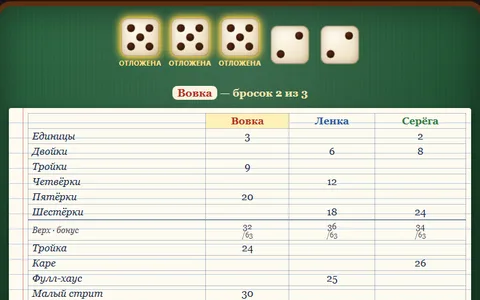
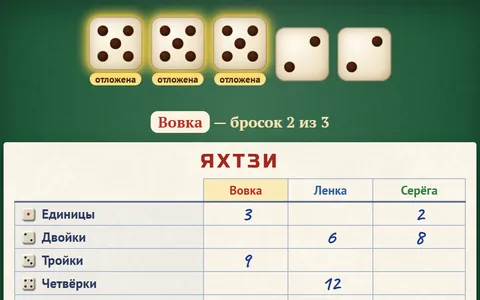
Яхтзи: бланк счёта вместо тетради — печать, очки от руки чернилами
Бумага с фактурой без тетрадных линеек, шапка с названием игры, печатные графы со значками
граней, сетка с разделами; записанные очки — рукописью синими чернилами с наклоном,
варианты — карандашом. Стол — сукно в деревянной раме (как в перудо).

diff --git a/lavochka/src/games/yahtzee/yahtzee.css b/lavochka/src/games/yahtzee/yahtzee.css
@@ -1,13 +1,14 @@
-/* Яхтзи: стол — сукно с лотком для костей, ниже тетрадный лист с таблицей. */
+/* Яхтзи: стол — сукно в деревянной раме с лотком костей, ниже бланк счёта (бумага, печать, очки от руки). */
 .yz-wrap { position: relative; width: 100%; height: 100%; user-select: none; display: flex; align-items: flex-start; justify-content: center; padding: 10px; box-sizing: border-box; overflow: auto; }
 .yz-table {
   width: min(100%, 760px); margin: auto 0; display: flex; flex-direction: column; gap: 10px; padding: 14px; box-sizing: border-box; border-radius: 18px;
-  background: radial-gradient(ellipse at 50% 20%, rgba(255, 255, 255, 0.1), transparent 60%), repeating-linear-gradient(90deg, rgba(0, 0, 0, 0.05) 0 2px, transparent 2px 5px), linear-gradient(160deg, #2f6b45, #1d4a2e 70%);
-  box-shadow: inset 0 0 60px rgba(0, 0, 0, 0.5), 0 0 0 8px #5b2f12, 0 0 0 10px #2a1206, 0 14px 26px rgba(0, 0, 0, 0.5);
+  border: 10px solid transparent;
+  background: radial-gradient(ellipse at 50% 18%, rgba(255, 255, 230, 0.14), transparent 60%) padding-box, url('/tex/perudo/felt.webp') center / 192px padding-box, url('/tex/perudo/wood.webp') center / 256px border-box;
+  box-shadow: inset 0 0 50px rgba(0, 0, 0, 0.5), 0 14px 26px rgba(0, 0, 0, 0.55);
 }
 .yz-tray { display: flex; justify-content: center; gap: 12px; padding: 18px 8px 8px; }
 .yz-slot { display: flex; flex-direction: column; align-items: center; gap: 4px; transition: transform 0.2s; }
-.yz-slot small { font: 700 11px system-ui, sans-serif; color: #ffe08a; visibility: hidden; text-transform: uppercase; letter-spacing: 0.5px; }
+.yz-slot small { font: 600 11px 'PT Sans', system-ui, sans-serif; color: #2a1a0a; background: #ffe08a; padding: 0 6px; border-radius: 999px; visibility: hidden; }
 .yz-slot.held { transform: translateY(-12px); }
 .yz-slot.held small { visibility: visible; }
 .yz-slot.held .die-wrap { filter: drop-shadow(0 0 6px #ffd24a) drop-shadow(0 0 2px #ffd24a); }
@@ -17,26 +18,38 @@
 .yz-die .die-wrap { zoom: 1.16; }
 .yz-info { text-align: center; font: 700 17px 'PT Serif', Georgia, serif; color: #f6e2b0; min-height: 1.4em; }
 .yz-info span { padding: 1px 8px; border-radius: 8px; background: #fbf3df; }
+/* бланк счёта: бумага, печатная сетка и подписи, очки — от руки чернилами, подсказки — карандашом */
 .yz-sheet {
-  background: repeating-linear-gradient(#fdfaf0 0 23px, #b9cfe6 23px 24px), #fdfaf0; border-radius: 4px; padding: 8px 8px 10px 30px; position: relative;
-  box-shadow: 0 4px 12px rgba(0, 0, 0, 0.45); color: #1d2a4a; font: 16px 'PT Serif', Georgia, serif; overflow-x: auto;
+  background: url('/tex/yahtzee/paper.webp') center / 256px, #fbf7ea; border-radius: 3px; padding: 10px 12px 12px; position: relative;
+  box-shadow: 0 1px 0 #e9e1c8, 0 2px 0 #f6f0de, 0 3px 0 #e2d9bd, 0 8px 16px rgba(0, 0, 0, 0.45); color: #24304a; font: 15px 'PT Sans', system-ui, sans-serif; overflow-x: auto;
 }
-.yz-sheet::before { content: ''; position: absolute; left: 22px; top: 0; bottom: 0; width: 1px; background: #e08a8a; }
+.yz-title { font: 400 22px 'Russo One', 'PT Sans', sans-serif; color: #a3271f; letter-spacing: 3px; text-transform: uppercase; text-align: center; margin: -2px 0 6px; }
 .yz-grid { border-collapse: collapse; width: 100%; }
-.yz-grid th, .yz-grid td { border: 1px solid rgba(60, 80, 140, 0.35); padding: 2px 6px; text-align: center; height: 22px; white-space: nowrap; }
-.yz-grid td:first-child { text-align: left; font-style: italic; }
-.yz-grid th.cur { background: #fff1b8; }
-.yz-grid tr.sep td { border-bottom: 2px solid rgba(60, 80, 140, 0.6); }
-.yz-grid tr.sum td { font-size: 13px; color: #445; }
-.yz-grid tr.total td { font-weight: 700; border-top: 2px solid rgba(60, 80, 140, 0.6); }
-.yz-grid td.zero { color: #999; }
-.yz-grid td.win { background: #ffe9a8; }
-.yz-grid td.opt { color: #888; font-family: 'Caveat', 'Comic Sans MS', cursive; font-size: 18px; cursor: pointer; background: rgba(255, 220, 120, 0.25); }
-.yz-grid td.opt:hover { background: rgba(255, 210, 74, 0.6); color: #333; }
-.yz-grid td.big { font-size: 22px; font-weight: 700; }
+.yz-grid th, .yz-grid td { border: 1px solid #a9b6cf; padding: 1px 6px; text-align: center; height: 26px; white-space: nowrap; }
+.yz-grid th { font: 700 14px 'PT Sans', sans-serif; border-bottom: 2px solid #5e6f95; padding: 3px 6px; }
+.yz-grid th:first-child { border-top-color: transparent; border-left-color: transparent; }
+.yz-grid td.lb { text-align: left; font-weight: 700; color: #2c3a5e; background: rgba(170, 185, 215, 0.12); }
+.yz-grid td.lb img { width: 18px; height: 18px; vertical-align: -4px; margin-right: 6px; }
+.yz-grid td.lb small { font-weight: 400; color: #6a7590; font-size: 12px; }
+.yz-grid th.cur { background: rgba(255, 214, 90, 0.35); }
+.yz-grid tr.sep td { border-bottom: 2px solid #5e6f95; }
+.yz-grid tr.sum td { background: rgba(170, 185, 215, 0.2); }
+.yz-grid tr.sum td small { font-size: 12px; color: #7a86a0; }
+.yz-grid tr.total td { border-top: 2px solid #5e6f95; }
+.yz-grid td.ink i { display: inline-block; font: 700 23px/1 'Caveat', cursive; font-style: normal; color: #1f3a8f; transform: rotate(var(--r, 0deg)); }
+.yz-grid td.ink b { font-weight: 700; color: #a3271f; }
+.yz-grid tr.total td.ink i { font-size: 27px; }
+.yz-grid td.zero i { color: #5a6a9a; }
+.yz-grid td.win { background: rgba(255, 214, 90, 0.4); }
+.yz-grid td.win i { text-decoration: underline 2px #a3271f; text-underline-offset: 3px; }
+.yz-grid td.opt { cursor: pointer; }
+.yz-grid td.opt i { font: 700 22px/1 'Caveat', cursive; font-style: normal; color: #6f6f68; border-bottom: 1px dashed #a09e94; }
+.yz-grid td.opt:hover { background: rgba(255, 214, 90, 0.45); }
+.yz-grid td.opt:hover i { color: #3a3a36; }
+.yz-grid td.big i { font-size: 28px; }
 .yz-grid small { display: block; font-size: 11px; color: #556; }
-.yz-dots { display: inline-flex; gap: 2px; }
-.yz-dots i { font: 700 13px system-ui, sans-serif; font-style: normal; width: 17px; height: 17px; line-height: 17px; border-radius: 4px; background: #f3e7c9; box-shadow: inset 0 0 0 1px #a08452; }
+.yz-dots { display: inline-flex; gap: 1px; }
+.yz-dots img { width: 20px; height: 20px; }
 .yz-note { font-size: 13px; color: #556; margin-top: 4px; }
 .yz-panel { display: flex; flex-direction: column; gap: 6px; }
 .yz-panel .btn { width: 100%; }
@@ -44,7 +57,9 @@
 @media (max-width: 600px) {
   .yz-tray { gap: 6px; }
   .yz-die .die-wrap { zoom: 0.92; }
-  .yz-sheet { font-size: 14px; padding-left: 26px; }
+  .yz-sheet { font-size: 13px; padding: 8px 6px 10px; }
+  .yz-grid th, .yz-grid td { padding: 1px 3px; }
+  .yz-grid td.ink i, .yz-grid td.opt i { font-size: 20px; }
 }
 /* в показе правил (окошко ниже 520px) — плотнее, чтобы таблица помещалась целиком */
 @container (max-height: 520px) {
@@ -52,9 +67,11 @@
   .yz-tray { padding: 6px 4px 2px; }
   .yz-die .die-wrap { zoom: 0.75; }
   .yz-info { font-size: 14px; }
-  .yz-sheet { font-size: 12px; padding: 4px 4px 4px 22px; background: #fdfaf0; }
-  .yz-sheet::before { left: 16px; }
+  .yz-sheet { font-size: 12px; padding: 4px; }
+  .yz-title { font-size: 14px; margin: 0 0 2px; }
+  .yz-grid td.lb img { width: 12px; height: 12px; }
+  .yz-grid td.ink i { font-size: 15px; }
   .yz-grid th, .yz-grid td { height: 13px; padding: 0 4px; line-height: 13px; }
   .yz-grid small { display: inline; font-size: 10px; }
-  .yz-grid td.opt { font-size: 14px; }
+  .yz-grid td.opt i { font-size: 15px; }
 }

diff --git a/lavochka/src/games/yahtzee/view.ts b/lavochka/src/games/yahtzee/view.ts
@@ -112,12 +112,12 @@ class YahtzeeView implements GameView<State, Event> {
     const head = `<tr><th></th>${seats.map((p) => `<th style="color:${SEATS[p].ink ?? SEATS[p].color}" class="${p === v.turn && !v.over ? 'cur' : ''}">${esc(this.plain(p).replace(/\s*\(.*\)\s*$/, '').slice(0, 8))}</th>`).join('')}</tr>`;
     if (v.cfg.variant === 'poker') {
       const rows = [
-        `<tr><td>Побед</td>${seats.map((p) => `<td class="big">${v.wins[p]}</td>`).join('')}</tr>`,
-        `<tr><td>Кон ${v.pround}</td>${seats.map((p) => `<td>${v.hands[p] ? dice(v.hands[p]!) + `<small>${HAND_NAME[pokerRank(v.hands[p]!)[0]]}</small>` : p === v.turn && v.rolls ? '…' : ''}</td>`).join('')}</tr>`,
+        `<tr><td class="lb">Побед</td>${seats.map((p) => `<td class="ink big"><i>${v.wins[p]}</i></td>`).join('')}</tr>`,
+        `<tr><td class="lb">Кон ${v.pround}</td>${seats.map((p) => `<td>${v.hands[p] ? dice(v.hands[p]!) + `<small>${HAND_NAME[pokerRank(v.hands[p]!)[0]]}</small>` : p === v.turn && v.rolls ? '…' : ''}</td>`).join('')}</tr>`,
       ];
       if (v.last)
         rows.push(
-          `<tr class="prev"><td>Прошлый</td>${seats
+          `<tr class="prev"><td class="lb">Прошлый</td>${seats
             .map((p) => {
               const hd = v.last!.hands[p];
               const win = v.last!.winners.length === 1 && v.last!.winners[0] === p;
@@ -125,30 +125,35 @@ class YahtzeeView implements GameView<State, Event> {
             })
             .join('')}</tr>`
         );
-      this.sheet.innerHTML = `<table class="yz-grid poker">${head}${rows.join('')}</table><div class="yz-note">До ${v.cfg.wins} побед.</div>`;
+      this.sheet.innerHTML = `<div class="yz-title">${TITLE.poker}</div><table class="yz-grid poker">${head}${rows.join('')}</table><div class="yz-note">До ${v.cfg.wins} побед.</div>`;
       return;
     }
     const opts = this.actSeat != null ? options(v, this.actSeat) : [];
+    // записано — рукой, чернилами (лёгкий наклон у каждой цифры свой); можно записать — карандашом
     const cell = (p: number, c: string) => {
       const val = v.sheet[p][c];
-      if (val != null) return `<td class="${val === 0 ? 'zero' : ''}">${val === 0 ? '—' : val}</td>`;
+      if (val != null) return `<td class="ink${val === 0 ? ' zero' : ''}"><i style="--r:${tilt(p, c)}deg">${val === 0 ? '—' : val}</i></td>`;
       const o = p === this.actSeat ? opts.find((x) => x.cat === c) : undefined;
-      return o ? `<td class="opt" data-cat="${c}">${o.pts}</td>` : '<td></td>';
+      return o ? `<td class="opt" data-cat="${c}"><i>${o.pts}</i></td>` : '<td></td>';
+    };
+    const label = (c: string) => {
+      const n = /^n([1-6])$/.exec(c);
+      return n ? `<td class="lb"><img src="${TEX}d${n[1]}.webp" alt="">${CAT_NAME[c as keyof typeof CAT_NAME]}</td>` : `<td class="lb">${CAT_NAME[c as keyof typeof CAT_NAME]}</td>`;
     };
     const cats = catsOf(v.cfg);
     const rows: string[] = [];
     for (const c of cats) {
-      rows.push(`<tr class="${c === 'n6' ? 'sep' : ''}"><td>${CAT_NAME[c]}</td>${seats.map((p) => cell(p, c)).join('')}</tr>`);
+      rows.push(`<tr class="${c === 'n6' ? 'sep' : ''}">${label(c)}${seats.map((p) => cell(p, c)).join('')}</tr>`);
       if (c === 'n6' && v.cfg.variant === 'yahtzee')
-        rows.push(`<tr class="sum"><td>Верх · бонус</td>${seats.map((p) => {
+        rows.push(`<tr class="sum"><td class="lb">Верх <small>· бонус +35 от 63</small></td>${seats.map((p) => {
           const u = upperSum(v.sheet[p]);
-          return `<td>${u}${u >= 63 ? ' <b>+35</b>' : `<small>/63</small>`}</td>`;
+          return `<td class="ink"><i>${u}${u >= 63 ? ' <b>+35</b>' : ''}</i>${u < 63 ? '<small>/63</small>' : ''}</td>`;
         }).join('')}</tr>`);
     }
-    if (v.cfg.variant === 'yahtzee' && seats.some((p) => v.ybonus[p])) rows.push(`<tr><td>Ещё яхтзи</td>${seats.map((p) => `<td>${v.ybonus[p] || ''}</td>`).join('')}</tr>`);
+    if (v.cfg.variant === 'yahtzee' && seats.some((p) => v.ybonus[p])) rows.push(`<tr><td class="lb">Ещё яхтзи</td>${seats.map((p) => `<td class="ink"><i>${v.ybonus[p] || ''}</i></td>`).join('')}</tr>`);
     const top = Math.max(...seats.map((p) => total(v, p)));
-    rows.push(`<tr class="total"><td>Итого</td>${seats.map((p) => `<td class="${v.over && total(v, p) === top ? 'win' : ''}">${total(v, p)}</td>`).join('')}</tr>`);
-    this.sheet.innerHTML = `<table class="yz-grid">${head}${rows.join('')}</table>`;
+    rows.push(`<tr class="total"><td class="lb">Итого</td>${seats.map((p) => `<td class="ink${v.over && total(v, p) === top ? ' win' : ''}"><i>${total(v, p)}</i></td>`).join('')}</tr>`);
+    this.sheet.innerHTML = `<div class="yz-title">${TITLE[v.cfg.variant] ?? 'Яхтзи'}</div><table class="yz-grid">${head}${rows.join('')}</table>`;
   }
 
   private drawPanel() {
@@ -236,7 +241,11 @@ class YahtzeeView implements GameView<State, Event> {
   }
 }
 
-const dice = (d: number[]) => `<span class="yz-dots">${d.map((x) => `<i>${x}</i>`).join('')}</span>`;
+const TEX = `${import.meta.env.BASE_URL}tex/yahtzee/`;
+const TITLE: Record<string, string> = { yahtzee: 'Яхтзи', generala: 'Генерал', poker: 'Покер на костях' };
+/** Наклон рукописной цифры: свой у каждой клетки, устойчивый. */
+const tilt = (p: number, c: string) => ((((p + 3) * 31 + [...c].reduce((a, ch) => a * 7 + ch.charCodeAt(0), 0)) % 9) - 4) * 0.8;
+const dice = (d: number[]) => `<span class="yz-dots">${d.map((x) => `<img src="${TEX}d${x}.webp" alt="${x}">`).join('')}</span>`;
 
 export function createView(): GameView<State, Event> {
   return new YahtzeeView();
